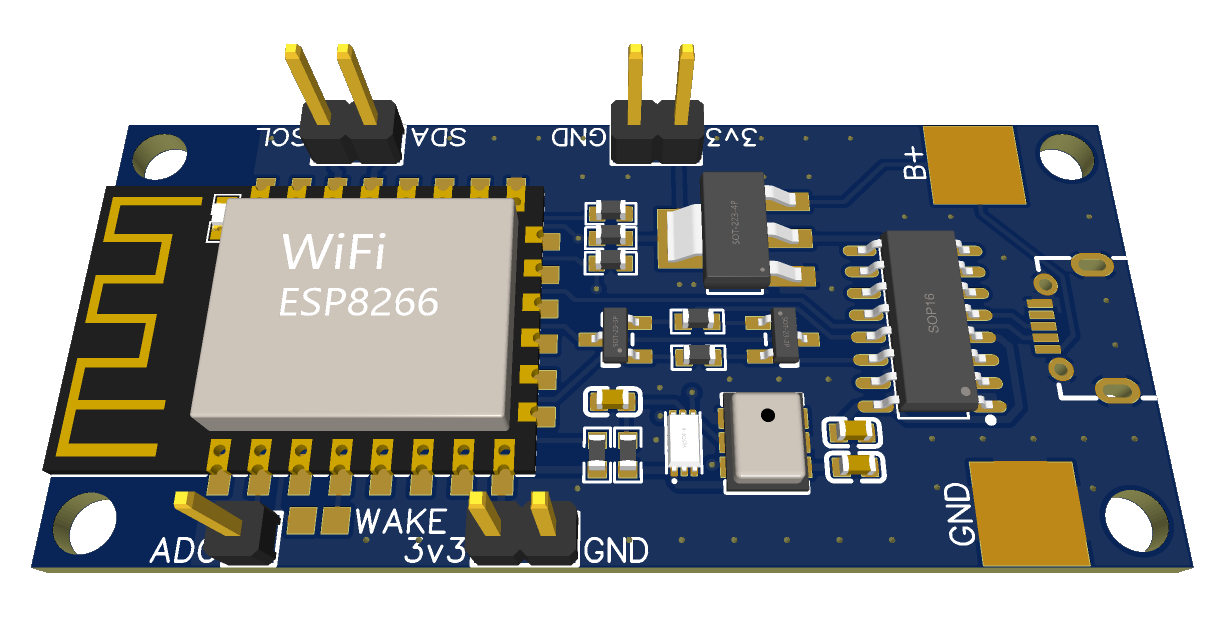
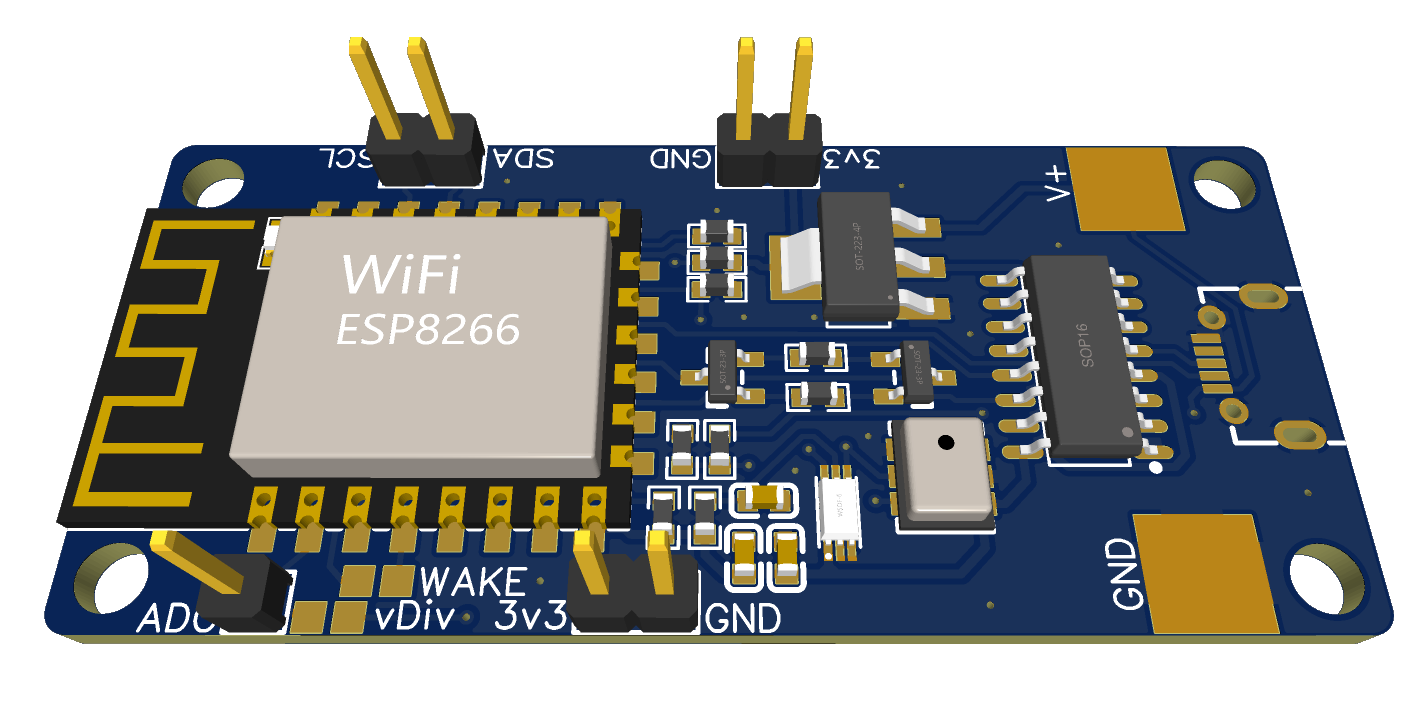
Updated images of PCB

Changed region(s): [[0.0, 0.0307, 0.9943, 0.9515]]

diff --git a/README.md b/README.md
@@ -9,23 +9,23 @@ I also wanted the hardware to be able to be used with [ESPHome](https://esphome.
 
 This project was made using [EasyEDA](https://easyeda.com/) and is made publically available [here](https://oshwlab.com/emwjacobson/esp-12f-ch340) on the Open Source Hardware Lab's website.
 
-As I make updates I will post the Archive of the Gerber files on the [Releases](https://github.com/emwjacobson/ESPHub-Hardware/releases) page.
+As I make updates I will post the BOM, Pick and Place, and Gerber files on the [Releases](https://github.com/emwjacobson/ESPHub-Hardware/releases) page.
 
-# Pads and Pins
+# Pads and Headers
 
-## Pins
+## Headers
 
-On the board there are two areas where 3.3v power is broken out. The power and ground pins are labeled with "3v3" and "GND" respectively. These are meant to be output power as they branch off of the voltage regulator, though in theory they can also power the device if a 3.3v input is supplied.
+On the board there are two areas where 3.3v power is broken out. The power and ground headers are labeled with "3v3" and "GND" respectively. These are meant to be output power as they branch off of the voltage regulator, though in theory they can also power the device if a 3.3v input is supplied.
 
-The I2C's SDA and SCL pins are broken out to allow for connecting to other I2C devices.
+The I2C's SDA and SCL pins of the ESP8266 are broken out to allow for connecting to other I2C devices.
 
-The ESP8266 has a single Analog pin that is broken out on the pin labeled ADC. This can be useful for adding a device such as a potentiometer. **Note** that this pin can be used with the voltage divider (labeled vDiv and explained more below) to monitor the input voltage of the device. In this case, the voltage divider uses the ADC pin and another analog device should not be used.
+The ESP8266 has a single Analog pin that is broken out on the header labeled ADC. This can be useful for adding a device such as a potentiometer. **Note** that this pin can be used with the voltage divider (labeled vDiv and explained more below) to monitor the input voltage of the device. In this case, the voltage divider uses the ADC pin and another analog device should not be used.
 
 ## Pads
 
-The pads labeled "vDiv" connects an integrated voltage divider to the Analog pin of the ESP8266. If these solder pads are bridged, then another analog device cannot be connected to the ADC pin. The voltage divider maps 0-13.195v to 0-1v. This was intended to measure battery level if the device is powered through V+/GND pins (explained more below).
+The pads labeled "vDiv" connects the integrated voltage divider to the Analog pin of the ESP8266. If these solder pads are bridged, then another analog device cannot be connected to the ADC pin. The voltage divider maps 0-13.195v to 0-1v. This was intended to measure battery level if the device is powered through V+/GND pins (explained more below).
 
-The large V+ and GND are intended to be used if the device is being powered through an external source such as a battery. The V+ pad is connected to the voltage regulator, the USB V+, and voltage divider. **Note**: Do not connect the micro-USB port and power the V+ pad at the same time. They are directly connected to eachother and a difference in voltage might cause harm to either power source. The voltage regulator supports voltages from 4.8v up to 15v and the voltage divider can measure from 0v to 13.195v.
+The large V+ and GND pads are intended to be used if the device is being powered through an external source such as a battery. The V+ pad is connected to the input of the voltage regulator, the USB V+, and voltage divider. **Note**: Do not connect the micro-USB port and power the V+ pad at the same time. They are directly connected to eachother and a difference in voltage might cause harm to either power source. The voltage regulator supports voltages from 4.8v up to 15v and the voltage divider can measure from 0v to 13.195v.
 
 The pads labeled WAKE connect the Wake and Reset pins of the ESP8266. Bridging these allows the device to wake up from it's Deep Sleep mode. Without these pins bridges, the device will not be able to wake itself and will need to be power cycled in order to return to normal operation.
 
@@ -33,6 +33,6 @@ The pads labeled WAKE connect the Wake and Reset pins of the ESP8266. Bridging t
 
 ![Schematic](images/Schematic.png)
 
-# 3D Rendering
+# 3D Model
 
 ![Design](images/Design.png)
